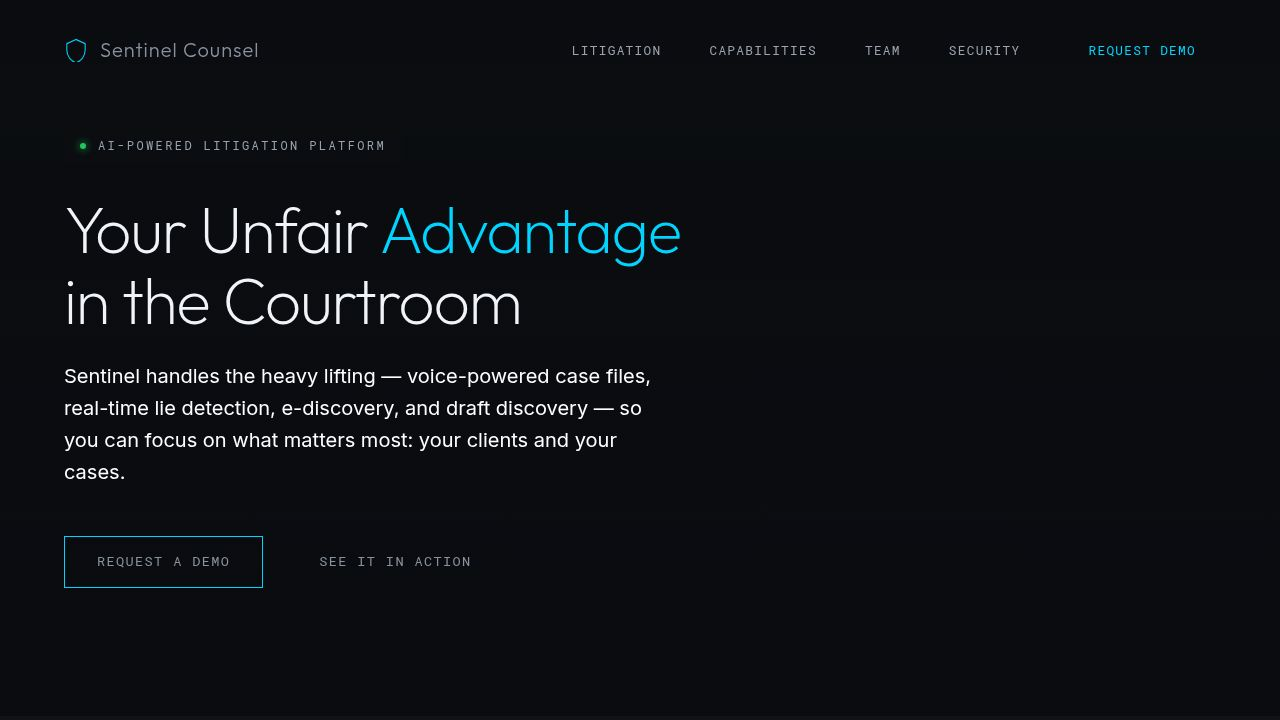
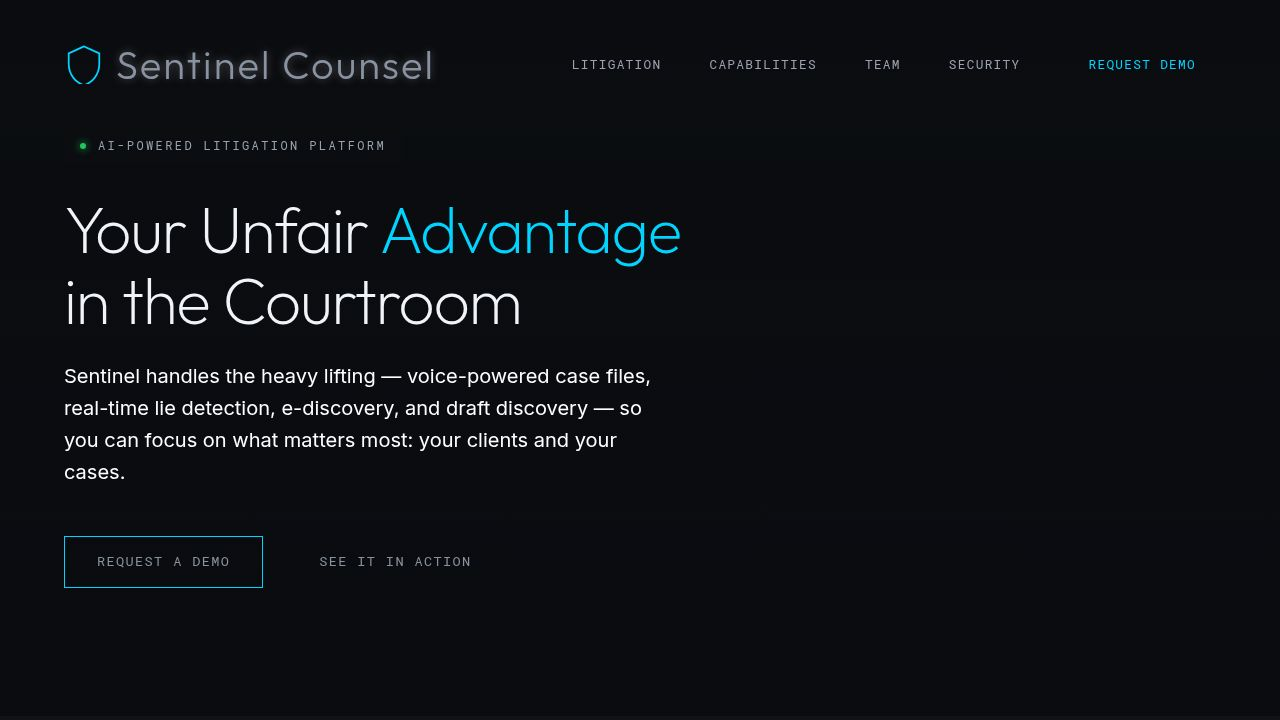
Adjust website layout for optimal mobile viewing and readability
Update CSS styles to implement responsive design for mobile viewports, including navigation adjustments, text scaling, and layout stacking.

Replit-Commit-Author: Agent
Replit-Commit-Session-Id: a7d96290-15e5-4b0f-8cee-4c9f3b031d97
Replit-Commit-Checkpoint-Type: full_checkpoint
Replit-Commit-Event-Id: 8ec827a3-c1c5-4ea2-ace3-f22083a40765
Replit-Commit-Screenshot-Url: https://storage.googleapis.com/screenshot-production-us-central1/e82fdfba-1f14-41a0-9ec4-0d4b042e97af/a7d96290-15e5-4b0f-8cee-4c9f3b031d97/zmeh1cM
Replit-Helium-Checkpoint-Created: true

diff --git a/artifacts/sentinel-counsel/src/styles/homepage.css b/artifacts/sentinel-counsel/src/styles/homepage.css
@@ -1035,3 +1035,178 @@
     max-width: 300px;
   }
 }
+
+@media (max-width: 768px) {
+  .ice-nav {
+    flex-wrap: wrap;
+    justify-content: center;
+    gap: 0.5rem;
+    padding: 0.75rem 1rem;
+  }
+
+  .ice-nav.scrolled {
+    padding: 0.75rem 1rem;
+  }
+
+  .ice-logo {
+    font-size: 1.4rem;
+    width: 100%;
+    justify-content: center;
+  }
+
+  .ice-logo svg {
+    width: 24px;
+    height: 24px;
+  }
+
+  .ice-nav-links {
+    gap: 0.75rem;
+    font-size: 0.6rem;
+    flex-wrap: wrap;
+    justify-content: center;
+    width: 100%;
+  }
+
+  .ice-nav-cta {
+    padding: 0.35rem 0.6rem !important;
+    font-size: 0.6rem !important;
+  }
+
+  .ice-container section {
+    padding: 3.5rem 1.25rem;
+  }
+
+  .ice-container .ice-hero {
+    padding-top: 8rem;
+    padding-bottom: 3rem;
+  }
+
+  .ice-hero h1,
+  .hero-text-visible,
+  .hero-text-fade {
+    font-size: 1.75rem;
+    line-height: 1.2;
+  }
+
+  .hero-badge {
+    font-size: 0.6rem;
+    margin-bottom: 0.75rem;
+  }
+
+  .hero-sub {
+    font-size: 0.95rem;
+  }
+
+  .hero-actions {
+    flex-direction: column;
+    width: 100%;
+    max-width: none;
+  }
+
+  .btn-primary,
+  .btn-ghost {
+    width: 100%;
+    justify-content: center;
+    font-size: 0.75rem;
+  }
+
+  .trust-inner {
+    flex-direction: column;
+    gap: 1rem;
+    padding: 1.5rem 1.25rem;
+    align-items: flex-start;
+  }
+
+  .trust-item {
+    font-size: 0.75rem;
+  }
+
+  .courtroom-grid {
+    grid-template-columns: 1fr;
+    gap: 2rem;
+  }
+
+  .courtroom-text h2,
+  .priv-text h2,
+  .team-left h2 {
+    font-size: 1.75rem;
+  }
+
+  .courtroom-text p,
+  .team-left p {
+    font-size: 1rem;
+  }
+
+  .cap-card {
+    padding: 1.5rem;
+  }
+
+  .cap-card h3 {
+    font-size: 1.1rem;
+  }
+
+  .cap-card p {
+    font-size: 0.95rem;
+  }
+
+  .privilege-inner {
+    grid-template-columns: 1fr;
+    gap: 2rem;
+  }
+
+  .priv-visual {
+    min-height: 200px;
+  }
+
+  .case-inner {
+    padding: 3rem 1.25rem;
+  }
+
+  .case-ruling {
+    padding: 1.5rem;
+  }
+
+  .case-quote {
+    font-size: 1rem;
+  }
+
+  .team-new-inner {
+    grid-template-columns: 1fr;
+    gap: 2rem;
+  }
+
+  .expertise-creds {
+    flex-direction: column;
+    gap: 0.75rem;
+  }
+
+  .sec-grid {
+    grid-template-columns: 1fr;
+    gap: 2rem;
+  }
+
+  .sec-grid {
+    gap: 2rem;
+  }
+
+  .sec-number {
+    font-size: 2.5rem;
+  }
+
+  .cta-section h2 {
+    font-size: 1.75rem;
+  }
+
+  .ice-footer {
+    flex-direction: column;
+    gap: 1.5rem;
+    padding: 2rem 1.25rem;
+    text-align: center;
+  }
+
+  .footer-links {
+    flex-wrap: wrap;
+    justify-content: center;
+    gap: 1rem;
+  }
+}